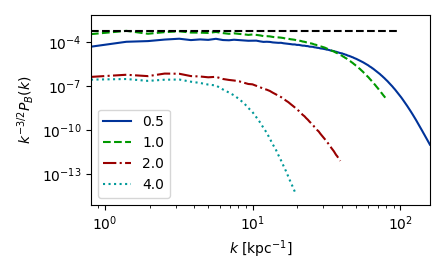
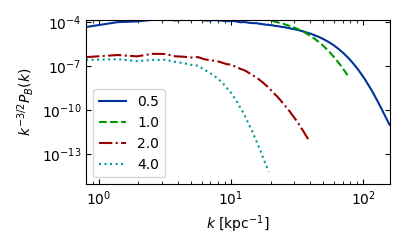
revised plots

diff --git a/ssdyn_letter.tex b/ssdyn_letter.tex
@@ -279,28 +279,47 @@ They refute the earlier dynamo solutions of \citet{BKMM04}
 \section{Disentangling the dynamo} \label{sec:ssd-tang}
 
 \begin{figure*}
-\gridline{\hspace{-1cm} \fig{figs/ssd-tang-brms.png}{0.36\textwidth}{(a)}
-                            \fig{figs/ssdBpower.png}{0.36\textwidth}{(b)}
-                       \fig{figs/tanglingBpower.png}{0.36\textwidth}{(c)}
+\gridline{ \fig{figs/ssd-tang-brms.png}{0.5\textwidth}{(a)}
+          }
+\gridline{     \fig{figs/ssdBpower.png}{0.5\textwidth}{(b)}
+          \fig{figs/tanglingBpower.png}{0.5\textwidth}{(c)}
           }
 \caption{
-Comparison of simulations, one with tangling and the other with dynamo
-amplification of magnetic field, from non-helical random forcing.
-For the SSD model, $R_{\rm m}=148$ and $P_{\rm m}=50.0$, while the tangling
-model has the dynamo suppressed by choosing $R_{\rm m}=7.40$ and $P_{\rm m}=2.50$.
-Panel (a) displays $B_{\rm rms}$ as a proportion of $\overline{B_{\rm Eq}}$,
-% mm where $\overline{B_{\rm Eq}}=\overline{u_{\rm rms}}/\sqrt{2}$ is
-the time-averaged equipartion field. 
-% mm and $\overline{u_{\rm rms}}$ is the  time-averaged $u_{\rm rms}$ during the kinematic phase.
+%fag
+% Comparison of simulations, one with tangling and the other with dynamo
+%-amplification of magnetic field, from non-helical random forcing.
+%-For the SSD model, $R_{\rm m}=148$ and $P_{\rm m}=50.0$, while the tangling
+%-model has the dynamo suppressed by choosing $R_{\rm m}=7.40$ and $P_{\rm m}=2.50$.
+%-Panel (a) displays $B_{\rm rms}$ as a proportion of $\overline{B_{\rm Eq}}$,
+%
+%% mm where $\overline{B_{\rm Eq}}=\overline{u_{\rm rms}}/\sqrt{2}$ is
+%the time-averaged equipartion field. 
+%% mm and $\overline{u_{\rm rms}}$ is the  time-averaged $u_{\rm rms}$ during the kinematic phase.
+Simulation results for non-helical random forcing. 
+The simulation with $R_{\rm m}=148$ and $P_{\rm m}=50.0$ supports dynamo 
+amplification of magnetic field
+With $R_{\rm m}=7.4$ and $P_{\rm m}=2.50$ dynamo is suppressed and 
+amplification is limited to tangling of the magnetic field.
+Panel (a) displays mean magnetic energy density, $e_B$, evolving as a
+proportion of time-averaged kinetic energy density, $\overline{e_K}$.
 The inset shows a zoom-in of the early linear growth of the tangled field.
-Time is scaled with $\kf \overline{u_{\rm rms}}$, the eddy turnover
-time at the forcing scale.
-Power spectra are displayed for magnetic energy of the SSD (b) and
-tangled model (c).  The legend shows the scaled
+%fag
+%Time is scaled with $\kf \overline{u_{\rm rms}}$, the eddy turnover
+%time at the forcing scale.
+Time is normalised by the inverse eddy turnover time at the forcing scale,
+$\kf \overline{u_{\rm rms}}$.
+%fag
+%Power spectra are displayed for magnetic energy of the SSD (b) and
+%tangled model (c).  The legend shows the scaled
+Compensated power spectra are displayed of magnetic energy for the model with
+SSD (b) and with tangling (c).
+%fag
+%The legend shows the scaled 
+The legend shows the normalised  
 times for each spectrum.
-The forcing scale, $\kf=8$,
- is indicated by the vertical dotted line and the black dashed
-line indicates the gradient $k^{3/2}$.
+%fag
+%The forcing scale, $\kf=8$, is indicated by the vertical dotted line and the black dashed
+The forcing scale, $\kf=8$, is indicated by the vertical dotted line.
 $k_1=L/(2\pi)$, where $L$ is the largest length scale in the simulation domain,
 with the largest wavenumber $k/k_1=128$.
 \label{fig:tangling}}
@@ -371,7 +390,6 @@ To exclude any large scale magnetic field dynamics, the computational domain
 occupies a cube of length 120 pc, with periodic boundaries on all sides and
 with varying resolution.
 
-\section{Model design} \label{sec:model}
 
 \begin{figure*}[ht!]
 \gridline{\fig{figs/eB-res-4eta.png}{0.43\textwidth}{(a)}
